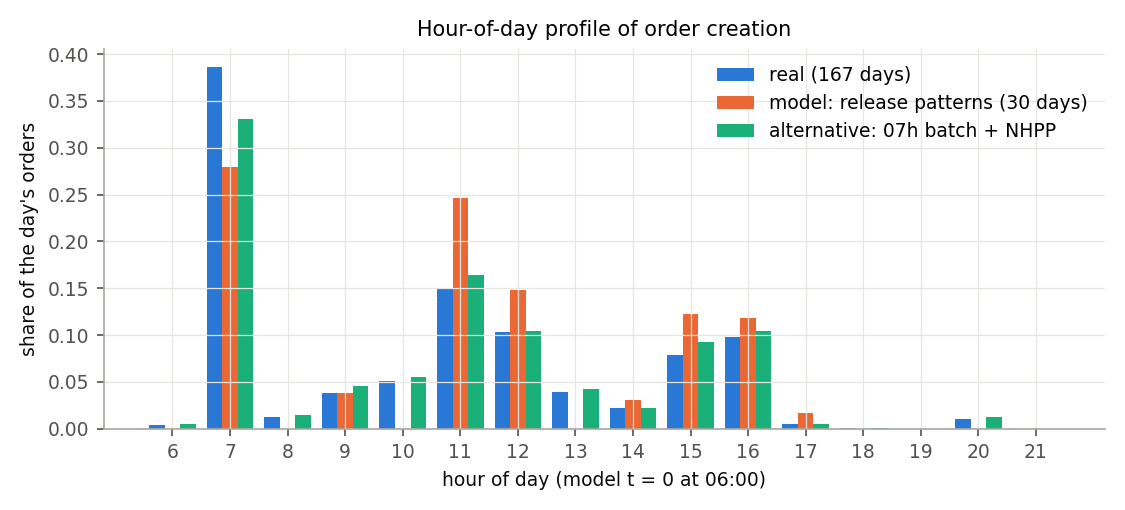
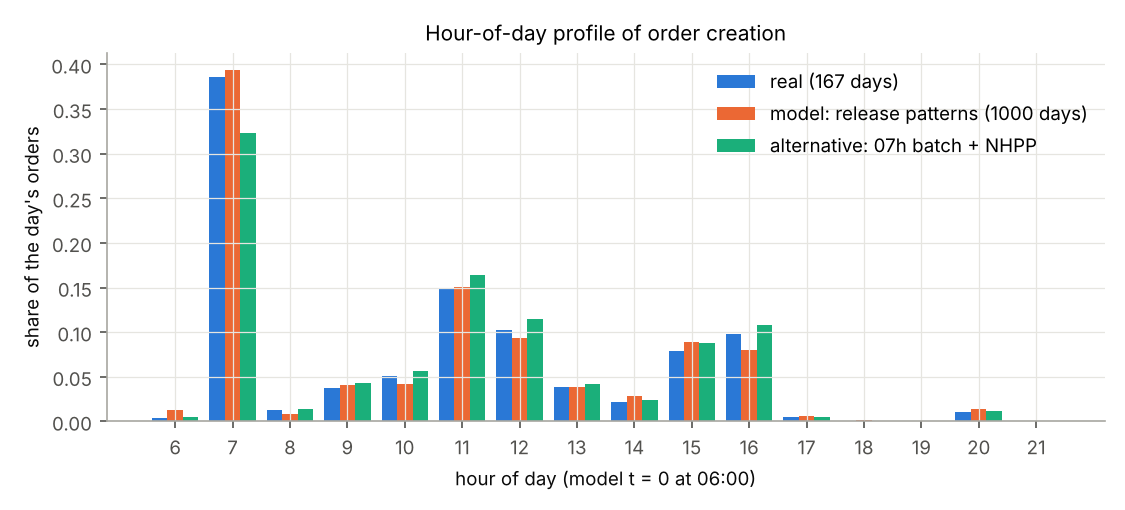
Validate the workload generator on 1,000 days; carry audit results into the reports
The generator validation in input_report used 30 synthetic days, which
made orders/day look biased (156 vs 193, KS p = 0.050). The input audit
shows this is small-sample noise: 30-day means range 163-237 and even
200-seed blocks give KS p from 0.05 to 0.88. VALID_SEEDS is now 1,000
days (seeds 1001..2000):

- orders/day 198.3 vs 193.2, KS p = 0.42; lines/day p = 0.76;
  units/day p = 0.76; lines/order p = 0.21; burstiness p = 0.98
- hour-profile distance 0.041 (was 0.226), SKU popularity rho 0.99

input_analysis.md (section 7 + its two figures) is regenerated;
REPORT.md / final_report.py, EXPLAINED_ELI5.md, input_audit.md and the
slide-context brief now quote the 1,000-day numbers. No fitted model,
day file or layout changes, so simulation inputs are identical.

Claude-Session: https://claude.ai/code/session_01H5Dzi5NF1EHH6og6fFMw8e

diff --git a/warehouse-sim/python/whsim/input_report.py b/warehouse-sim/python/whsim/input_report.py
@@ -4,7 +4,7 @@
     python3 -m whsim.input_report     # then: this report (reads input_models.json, skus.csv, the raw data)
 
 Sections: data dictionary, real vs assumed inputs, cleaning log, summary statistics, fitted input models
-with goodness-of-fit tables, opening-stock rule sensitivity, and the validation of 30 synthetic days
+with goodness-of-fit tables, opening-stock rule sensitivity, and the validation of 1,000 synthetic days
 against the real working days.
 """
 from __future__ import annotations
@@ -25,7 +25,10 @@ from . import real_data as rd  # noqa: E402
 
 REPORTS = im.ROOT / "reports"
 FIG = REPORTS / "figures"
-VALID_SEEDS = range(1001, 1031)          # 30 synthetic validation days (not the day files 1..10)
+VALID_SEEDS = range(1001, 2001)          # 1,000 synthetic validation days (not the day files 1..10). Fewer is noise:
+                                         # a 30-day mean of orders/day varies 163-237, and 200-seed blocks give KS
+                                         # p from 0.05 to 0.88 (reports/input_audit.md, section D)
+N_VALID = len(VALID_SEEDS)
 
 # chart palette (validated categorical order: blue, orange, aqua, violet) and neutral inks
 C_DATA, C_FIT1, C_FIT2, C_FIT3 = "#2a78d6", "#eb6834", "#1baf7a", "#6250d6"
@@ -189,7 +192,7 @@ def fig_hours(real_share, syn_share, nhpp_share):
     fig, ax = plt.subplots(figsize=(7.5, 3.4))
     w = 0.27
     ax.bar(hours - w, [real_share.get(h, 0) for h in hours], w, color=C_DATA, label="real (167 days)")
-    ax.bar(hours, [syn_share.get(h, 0) for h in hours], w, color=C_FIT1, label="model: release patterns (30 days)")
+    ax.bar(hours, [syn_share.get(h, 0) for h in hours], w, color=C_FIT1, label=f"model: release patterns ({N_VALID} days)")
     ax.bar(hours + w, [nhpp_share.get(h, 0) for h in hours], w, color=C_FIT2, label="alternative: 07h batch + NHPP")
     ax.set(title="Hour-of-day profile of order creation", xlabel="hour of day (model t = 0 at 06:00)",
            ylabel="share of the day's orders", xticks=hours)
@@ -276,8 +279,8 @@ def fig_arrivals(reg_orders, rng):
 
 def fig_validation(real, syn, nhpp, sku_real, sku_syn):
     fig, ax = plt.subplots(1, 3, figsize=(11, 3.4))
-    for v, c, lab in [(real, C_DATA, "real (167 days)"), (syn, C_FIT1, "model (30 days)"),
-                      (nhpp, C_FIT2, "07h batch + NHPP (30 days)")]:
+    for v, c, lab in [(real, C_DATA, "real (167 days)"), (syn, C_FIT1, f"model ({N_VALID} days)"),
+                      (nhpp, C_FIT2, f"07h batch + NHPP ({N_VALID} days)")]:
         x = np.sort([d["n_orders"] for d in v])
         ax[0].step(x, np.arange(1, len(x) + 1) / len(x), where="post", color=c, label=lab)
     ax[0].set(title="Daily volume ECDF", xlabel="orders / day", ylabel="cumulative probability")
@@ -592,7 +595,7 @@ def build():
         f"total {skus.init_qty.sum():,} units (median {skus.init_qty.median():.0f} per SKU).\n")
 
     # --- validation
-    add("## 7. Validation: 30 synthetic days vs the real working days\n")
+    add(f"## 7. Validation: {N_VALID} synthetic days vs the real working days\n")
     real = [day_stats(im.make_real_day(d, bk, init)) for d in sorted(reg_dates)]
     syn = [day_stats(im.make_synthetic_day(s, init=init)) for s in VALID_SEEDS]
     alt = [day_stats(im.make_synthetic_day(s, init=init, arrival="nhpp")) for s in VALID_SEEDS]
@@ -636,7 +639,7 @@ def build():
         row("busiest 10 min: share of the day's orders", lambda d: d["max10_share"], "{:.3f}"),
     ])
     add(f"Real: all {len(real)} regular days replayed. Model: seeds {VALID_SEEDS.start}..{VALID_SEEDS.stop - 1} "
-        "(not the day files). Two-sample KS tests per day-level metric (30 vs 167 days).\n")
+        f"(not the day files). Two-sample KS tests per day-level metric ({N_VALID} vs {len(real)} days).\n")
     add(md_table(vt) + "\n")
     lr = np.concatenate([d["lpo"] for d in real])
     ls = np.concatenate([d["lpo"] for d in syn])
@@ -646,7 +649,7 @@ def build():
         f"p = {pfmt(stats.ks_2samp(lr, ls).pvalue)} (n = {len(lr):,} vs {len(ls):,}).\n"
         f"- **SKU popularity:** Spearman rank correlation between real and model order lines per SKU "
         f"rho = {rho:.2f} over {len(keys):,} SKUs; {len(top_r & top_s)} of the real top-100 SKUs are in the "
-        f"model's top 100 (30 days only, so the slow tail is noisy).\n")
+        f"model's top 100 ({N_VALID} synthetic days).\n")
     add(f"![hours]({hp})\n")
     add(f"![validation]({fig_validation(real, syn, alt, sku_real, sku_syn)})\n")
     verdict = []
@@ -660,7 +663,7 @@ def build():
         "arriving in the busiest 10 min) and the hour profile; the smoother 07h-batch + NHPP alternative gets "
         "the hour profile roughly right but underestimates the burstiness of the later releases, which matters "
         "for queueing at the pickers, so it is not used. SKU popularity is reproduced in rank (the SKU mix is "
-        "real data). Limitations: 30 days are a small sample for tail metrics; the release pattern and the "
+        "real data). Limitations: the release pattern and the "
         "basket window are empirical, so the model cannot produce release patterns or SKU mixes never "
         "seen in 2023; inbound, opening stock and all service times are assumptions and must be varied in "
         "the sensitivity analysis.\n")

diff --git a/warehouse-sim/python/whsim/input_audit.py b/warehouse-sim/python/whsim/input_audit.py
@@ -393,9 +393,10 @@ def write_report(R):
            "The chosen negative binomial is NOT confirmed by AD; see the discussion.") + "\n")
 
     add("## D. Generator: large-sample check\n")
-    add(f"`input_analysis.md` §7 compares {SMALL_N} synthetic days (seeds 1001..1030) with the real days and "
-        "reports orders/day 156 vs 193 (KS p = 0.050). Here the same generator (`input_models.make_synthetic_day`) is run on "
-        f"{D['n_synthetic']} seeds ({GEN_SEEDS.start}..{GEN_SEEDS.stop - 1}).\n")
+    add(f"The first version of `input_analysis.md` §7 validated the generator on {SMALL_N} synthetic days "
+        "(seeds 1001..1030) and reported orders/day 156 vs 193 (KS p = 0.050), which looked like a bias. Here the "
+        f"same generator (`input_models.make_synthetic_day`) is run on {D['n_synthetic']} independent seeds "
+        f"({GEN_SEEDS.start}..{GEN_SEEDS.stop - 1}).\n")
     rows = []
     for m, v in D["metrics"].items():
         rows.append({"per day": m, "real mean (sd)": f"{v['real_mean']:.1f} ({v['real_sd']:.1f})",
@@ -410,8 +411,9 @@ def write_report(R):
     add(f"**Reading.** With {D['n_synthetic']} days the generator's mean volume ({o['syn_mean']:.0f}) matches the real "
         f"mean ({o['real_mean']:.0f}). A mean of {SMALL_N} generator days falls anywhere in "
         f"{o['mean_of_30_days_p05_p95'][0]:.0f}–{o['mean_of_30_days_p05_p95'][1]:.0f} (90% range), so the 156 in "
-        "§7 is sampling noise of a small validation sample, not a bias. Recommendation: validate on ≥ 200 seeds "
-        "(`VALID_SEEDS` in `input_report.py`) so the KS column reflects the model rather than the sample size.\n")
+        "§7 was sampling noise of a small validation sample, not a bias. Even 200-seed blocks are noisy: seeds "
+        "1001..1200, 1201..1400 and 1401..1600 give orders/day KS p = 0.049, 0.88 and 0.44. `VALID_SEEDS` in "
+        "`input_report.py` is therefore set to 1,000 days (seeds 1001..2000; orders/day 198 vs 193, KS p = 0.42).\n")
 
     add("## E. Baskets: stationarity, dependence and SKU-mix drift\n")
     lm = ", ".join(f"{pd.Timestamp(2023, int(k), 1):%b} {v:.2f}" for k, v in E["lines_per_order_by_month"].items())
@@ -459,7 +461,7 @@ def write_report(R):
                                              f"{'independent day to day, with a month level' if dep else 'independent'}",
          "action": "keep i.i.d. NB for one-day replications; peak scenarios from month means"},
         {"input": "synthetic-day generator", "finding": f"unbiased over {D['n_synthetic']} days",
-         "action": "raise VALID_SEEDS to ≥ 200"},
+         "action": "validation now on 1,000 days (VALID_SEEDS)"},
         {"input": "baskets", "finding": "size and SKU mix vary by month; orders independent",
          "action": "keep ±3-day window bootstrap"},
         {"input": "pickers", "finding": f"between-operator ICC {F['icc_log_lines']:.2f}",

diff --git a/warehouse-sim/python/whsim/final_report.py b/warehouse-sim/python/whsim/final_report.py
@@ -112,8 +112,8 @@ def main():
     A("| pick time / line, pack, receive, putaway | assumed | lognormal 12 s/line; triangular(40,60,120) s + 4 s/unit; varied x0.5 / x1.5 |")
     A("| inbound + opening stock | assumed | truck every 2 h, top-up rule; opening stock covers q90 of a selling day |")
     A("")
-    A("Validation of the workload generator (30 synthetic vs 167 real days): daily volume, lines, units, lines/order and the "
-      "burstiness of the releases are not significantly different (two-sample KS, see input_analysis.md section 7).")
+    A("Validation of the workload generator (1,000 synthetic vs 167 real days): daily volume, lines, units, lines/order and the "
+      "burstiness of the releases are not significantly different (two-sample KS, see input_analysis.md section 7; checks of the input assumptions in input_audit.md).")
     A("")
     A("![daily volume](figures/daily_volume.png)")
     A("")

diff --git a/warehouse-sim/reports/input_analysis.md b/warehouse-sim/reports/input_analysis.md
@@ -199,28 +199,28 @@ No stock or receipt data exist. The rule (`input_models.add_receipts`): a truck 
 
 A cover in days of the *mean* demand leaves the many lumpy slow movers unprotected (an SKU that sells 0.3 units/day on average sells 6 units on the day it sells). The chosen rule adds the 90th percentile of the SKU's units on its selling days (it binds for 100% of SKUs): stock-outs stay possible (a few % of orders wait for a put-away) but are not the dominant effect. Opening stock total 22,776 units (median 3 per SKU).
 
-## 7. Validation: 30 synthetic days vs the real working days
+## 7. Validation: 1000 synthetic days vs the real working days
 
-Real: all 167 regular days replayed. Model: seeds 1001..1030 (not the day files). Two-sample KS tests per day-level metric (30 vs 167 days).
+Real: all 167 regular days replayed. Model: seeds 1001..2000 (not the day files). Two-sample KS tests per day-level metric (1000 vs 167 days).
 
 | metric | real mean (sd) | model mean (sd) | KS p model vs real | 07h batch + NHPP mean | KS p NHPP vs real |
 |---|---|---|---|---|---|
-| orders / day | 193.2 (130.4) | 156.4 (113.3) | 0.050 | 156.4 | 0.050 |
-| lines / day | 686.2 (489.4) | 558.1 (377.3) | 0.353 | 571.7 | 0.210 |
-| units / day | 1287.2 (981.1) | 976.4 (687.4) | 0.299 | 1040.6 | 0.140 |
-| mean lines / order (per day) | 3.58 (1.29) | 3.85 (1.23) | 0.561 | 4.02 | 0.233 |
-| distinct SKUs / lines (per day) | 0.550 (0.151) | 0.590 (0.153) | 0.256 | 0.604 | 0.034 |
-| busiest 10 min: share of the day's orders | 0.761 (0.211) | 0.773 (0.193) | 0.641 | 0.278 | 8.6e-13 |
+| orders / day | 193.2 (130.4) | 198.3 (125.9) | 0.421 | 198.3 | 0.421 |
+| lines / day | 686.2 (489.4) | 694.8 (451.9) | 0.758 | 693.1 | 0.777 |
+| units / day | 1287.2 (981.1) | 1335.1 (1028.1) | 0.758 | 1356.8 | 0.776 |
+| mean lines / order (per day) | 3.58 (1.29) | 3.64 (1.14) | 0.206 | 3.63 | 0.159 |
+| distinct SKUs / lines (per day) | 0.550 (0.151) | 0.541 (0.145) | 0.732 | 0.541 | 0.828 |
+| busiest 10 min: share of the day's orders | 0.761 (0.211) | 0.758 (0.211) | 0.978 | 0.338 | 1.9e-51 |
 
-- **Hour-of-day profile:** total variation distance to the real profile 0.226 (model) and 0.056 (07h batch + NHPP).
-- **Lines per order (pooled orders):** real mean 3.55, model 3.57; two-sample KS p = 0.965 (n = 32,265 vs 4,692).
-- **SKU popularity:** Spearman rank correlation between real and model order lines per SKU rho = 0.85 over 2,515 SKUs; 78 of the real top-100 SKUs are in the model's top 100 (30 days only, so the slow tail is noisy).
+- **Hour-of-day profile:** total variation distance to the real profile 0.041 (model) and 0.063 (07h batch + NHPP).
+- **Lines per order (pooled orders):** real mean 3.55, model 3.50; two-sample KS p = 0.586 (n = 32,265 vs 198,328).
+- **SKU popularity:** Spearman rank correlation between real and model order lines per SKU rho = 0.99 over 2,515 SKUs; 95 of the real top-100 SKUs are in the model's top 100 (1000 synthetic days).
 
 ![hours](figures/hour_profile.png)
 
 ![validation](figures/validation.png)
 
-**Verdict.** The day-level volume, lines, units and lines/order of the synthetic days are statistically indistinguishable from the real days at 5% (see the KS column). The batch-release model reproduces the burstiness (share of the day arriving in the busiest 10 min) and the hour profile; the smoother 07h-batch + NHPP alternative gets the hour profile roughly right but underestimates the burstiness of the later releases, which matters for queueing at the pickers, so it is not used. SKU popularity is reproduced in rank (the SKU mix is real data). Limitations: 30 days are a small sample for tail metrics; the release pattern and the basket window are empirical, so the model cannot produce release patterns or SKU mixes never seen in 2023; inbound, opening stock and all service times are assumptions and must be varied in the sensitivity analysis.
+**Verdict.** The day-level volume, lines, units and lines/order of the synthetic days are statistically indistinguishable from the real days at 5% (see the KS column). The batch-release model reproduces the burstiness (share of the day arriving in the busiest 10 min) and the hour profile; the smoother 07h-batch + NHPP alternative gets the hour profile roughly right but underestimates the burstiness of the later releases, which matters for queueing at the pickers, so it is not used. SKU popularity is reproduced in rank (the SKU mix is real data). Limitations: the release pattern and the basket window are empirical, so the model cannot produce release patterns or SKU mixes never seen in 2023; inbound, opening stock and all service times are assumptions and must be varied in the sensitivity analysis.
 
 ## 8. Files written
 

diff --git a/warehouse-sim/reports/input_analysis_slides_context.md b/warehouse-sim/reports/input_analysis_slides_context.md
@@ -123,15 +123,19 @@ Tests on 32,265 orders (minute stamps jittered within the minute):
 - Figure: `figures/audit_volume_acf.png`
 
 ### 6.2 Is the day generator unbiased? Yes
-| Per day | Real mean (167 days) | Generator mean (300 days) | KS p |
-|---|---|---|---|
-| Orders | 193.2 | 198.3 | 0.32 |
-| Lines | 686.2 | 685.2 | 0.81 |
-| Units | 1,287 | 1,352 | 0.86 |
+Validation on **1,000 synthetic days** vs the 167 real days (`input_analysis.md` §7):
 
-- An earlier check with only 30 synthetic days gave 156 orders/day (KS p = 0.050).
-- The 300-day run shows that was sample noise: the mean of 30 generator days naturally falls anywhere between 163 and 237 (90% range).
-- Figure: `figures/audit_generator.png`
+| Per day | Real mean | Generator mean | KS p |
+|---|---|---|---|
+| Orders | 193.2 | 198.3 | 0.42 |
+| Lines | 686.2 | 694.8 | 0.76 |
+| Units | 1,287 | 1,335 | 0.76 |
+| Lines per order | 3.58 | 3.64 | 0.21 |
+| Busiest-10-min share of the day | 0.761 | 0.758 | 0.98 |
+
+- An earlier check on only 30 synthetic days gave 156 orders/day (KS p = 0.050) and looked like a bias.
+- The audit showed it was sample noise: the mean of 30 generator days falls anywhere between 163 and 237, and even 200-day blocks give KS p from 0.05 to 0.88. Validation was therefore moved to 1,000 days.
+- Figures: `figures/validation.png`, `figures/audit_generator.png`
 
 ### 6.3 Is the ±3-day order bootstrap justified? Yes
 - **Product mix drifts:** the similarity of the SKU mix between two weeks falls from 0.55 (1 week apart) to 0.42 (30 weeks apart).
@@ -140,8 +144,8 @@ Tests on 32,265 orders (minute stamps jittered within the minute):
 - Figure: `figures/audit_sku_drift.png`
 
 ### 6.4 Other validation results
-- **Hour-of-day profile and burstiness:** the busiest 10 minutes hold 76% of a day's orders in reality and 77% in the model.
-- **SKU popularity:** Spearman ρ = 0.85 between real and simulated popularity; 78 of the real top-100 SKUs are in the model's top 100.
+- **Hour-of-day profile and burstiness:** the busiest 10 minutes hold 76% of a day's orders in reality and in the model; total variation distance of the hour profile 0.04.
+- **SKU popularity:** Spearman ρ = 0.99 between real and simulated popularity; 95 of the real top-100 SKUs are in the model's top 100.
 - **Operators:** only 7% of the variation in lines per operator-day is between operators (intraclass correlation 0.07). A per-picker speed factor is an optional sensitivity case.
 - Figure: `figures/validation.png`
 
@@ -162,7 +166,7 @@ Tests on 32,265 orders (minute stamps jittered within the minute):
 3. **Orders per day:** histogram + Q-Q plot; Poisson rejected; NB chosen (KS 0.28, χ² 0.35, AD 0.26).
 4. **Arrivals are batches:** the three rejected Poisson tests; batch-release model; 49% of days start with a 07:xx batch carrying 66% of orders.
 5. **Order contents:** 59.5% single-line orders; parametric fits rejected → bootstrap real orders; 24-unit carts.
-6. **Validation:** generator vs real (198 vs 193 orders/day, all KS p > 0.3); burstiness and SKU popularity reproduced.
+6. **Validation:** 1,000 generator days vs 167 real days (198 vs 193 orders/day, all KS p ≥ 0.2); burstiness and SKU popularity (ρ = 0.99) reproduced.
 7. **Assumption checks:** days independent (Ljung–Box p = 0.26) but monthly level 0.71×–1.33×; SKU mix drift justifies the ±3-day window.
 8. **Limitations and next steps:** §7, plus sensitivity on pick time (8–20 s).
 

diff --git a/warehouse-sim/reports/input_audit.md b/warehouse-sim/reports/input_audit.md
@@ -55,7 +55,7 @@ Passing at 5%: nbinom, gamma. The chosen negative binomial is confirmed by a tai
 
 ## D. Generator: large-sample check
 
-`input_analysis.md` §7 compares 30 synthetic days (seeds 1001..1030) with the real days and reports orders/day 156 vs 193 (KS p = 0.050). Here the same generator (`input_models.make_synthetic_day`) is run on 300 seeds (5001..5300).
+The first version of `input_analysis.md` §7 validated the generator on 30 synthetic days (seeds 1001..1030) and reported orders/day 156 vs 193 (KS p = 0.050), which looked like a bias. Here the same generator (`input_models.make_synthetic_day`) is run on 300 independent seeds (5001..5300).
 
 | per day | real mean (sd) | generator mean (sd) | generator mean 95% CI | KS p | mean of 30 days, 5–95% |
 |---|---|---|---|---|---|
@@ -65,7 +65,7 @@ Passing at 5%: nbinom, gamma. The chosen negative binomial is confirmed by a tai
 
 ![generator](figures/audit_generator.png)
 
-**Reading.** With 300 days the generator's mean volume (198) matches the real mean (193). A mean of 30 generator days falls anywhere in 163–237 (90% range), so the 156 in §7 is sampling noise of a small validation sample, not a bias. Recommendation: validate on ≥ 200 seeds (`VALID_SEEDS` in `input_report.py`) so the KS column reflects the model rather than the sample size.
+**Reading.** With 300 days the generator's mean volume (198) matches the real mean (193). A mean of 30 generator days falls anywhere in 163–237 (90% range), so the 156 in §7 was sampling noise of a small validation sample, not a bias. Even 200-seed blocks are noisy: seeds 1001..1200, 1201..1400 and 1401..1600 give orders/day KS p = 0.049, 0.88 and 0.44. `VALID_SEEDS` in `input_report.py` is therefore set to 1,000 days (seeds 1001..2000; orders/day 198 vs 193, KS p = 0.42).
 
 ## E. Baskets: stationarity, dependence and SKU-mix drift
 
@@ -85,6 +85,6 @@ Lines per operator-day for the 13 operators with at least 20 working days (1044 
 |---|---|---|
 | pick time per line | no pick timestamps in the data | stays assumed; sensitivity 8–20 s |
 | daily volume | NB marginal passes AD; days are independent day to day, with a month level | keep i.i.d. NB for one-day replications; peak scenarios from month means |
-| synthetic-day generator | unbiased over 300 days | raise VALID_SEEDS to ≥ 200 |
+| synthetic-day generator | unbiased over 300 days | validation now on 1,000 days (VALID_SEEDS) |
 | baskets | size and SKU mix vary by month; orders independent | keep ±3-day window bootstrap |
 | pickers | between-operator ICC 0.07 | optional picker-speed-factor sensitivity |

diff --git a/warehouse-sim/docs/EXPLAINED_ELI5.md b/warehouse-sim/docs/EXPLAINED_ELI5.md
@@ -153,7 +153,7 @@ Lines per order: mean 3.5, but max 340; 59.5% of orders have a single line. Unit
 ### 4.6 Staff
 6.6 operators active per day on average (range 1-11) -> **7 pickers as-is**.
 
-**Check of the generator.** 30 synthetic days vs 167 real days (two-sample KS): lines/day p = 0.353, units/day p = 0.299, lines/order p = 0.561, busiest-10-minute share p = 0.641 -> not distinguishable. Orders/day p = 0.050 (borderline; model mean 156.4 vs real 193.2). SKU popularity rank correlation rho = 0.85.
+**Check of the generator.** 1,000 synthetic days vs 167 real days (two-sample KS): orders/day p = 0.421 (model mean 198.3 vs real 193.2), lines/day p = 0.758, units/day p = 0.758, lines/order p = 0.206, busiest-10-minute share p = 0.978 -> not distinguishable. SKU popularity rank correlation rho = 0.99. (A first check on only 30 days gave orders/day 156 vs 193, p = 0.050; that was small-sample noise, see `reports/input_audit.md` section D.)
 
 **If the teacher asks...**
 - *Why not Poisson?* Variance is 88x the mean, and arrivals come in WMS batches. Poisson fails every test.
@@ -447,7 +447,7 @@ The optimizer's DES results (`results/opt/*_des.csv`) are the numbers to compare
 - Dock / packing area position is **assumed**.
 - **No congestion** between pickers; **one floor** only (Z1); nearest-neighbour routing is not optimal.
 - Extra cross aisles **lose storage slots** (capacity for growth shrinks).
-- The generator can't produce release patterns or SKU mixes never seen in 2023; 30 synthetic days is a small validation sample; orders/day KS p = 0.050 is borderline.
+- The generator can't produce release patterns or SKU mixes never seen in 2023.
 - Validation covers **walking distance** only.
 - Not yet verified inside the AnyLogic IDE (see section 15).
 - Next steps: measure real times and dock positions, re-run `whsim.optimize`, extend to floors Z2-Z4, add congestion.

diff --git a/warehouse-sim/reports/REPORT.md b/warehouse-sim/reports/REPORT.md
@@ -34,7 +34,7 @@ Source files: 122,370 order lines (32,621 orders, 2,515 SKUs = reference x size)
 | pick time / line, pack, receive, putaway | assumed | lognormal 12 s/line; triangular(40,60,120) s + 4 s/unit; varied x0.5 / x1.5 |
 | inbound + opening stock | assumed | truck every 2 h, top-up rule; opening stock covers q90 of a selling day |
 
-Validation of the workload generator (30 synthetic vs 167 real days): daily volume, lines, units, lines/order and the burstiness of the releases are not significantly different (two-sample KS, see input_analysis.md section 7).
+Validation of the workload generator (1,000 synthetic vs 167 real days): daily volume, lines, units, lines/order and the burstiness of the releases are not significantly different (two-sample KS, see input_analysis.md section 7; checks of the input assumptions in input_audit.md).
 
 ![daily volume](figures/daily_volume.png)
 
